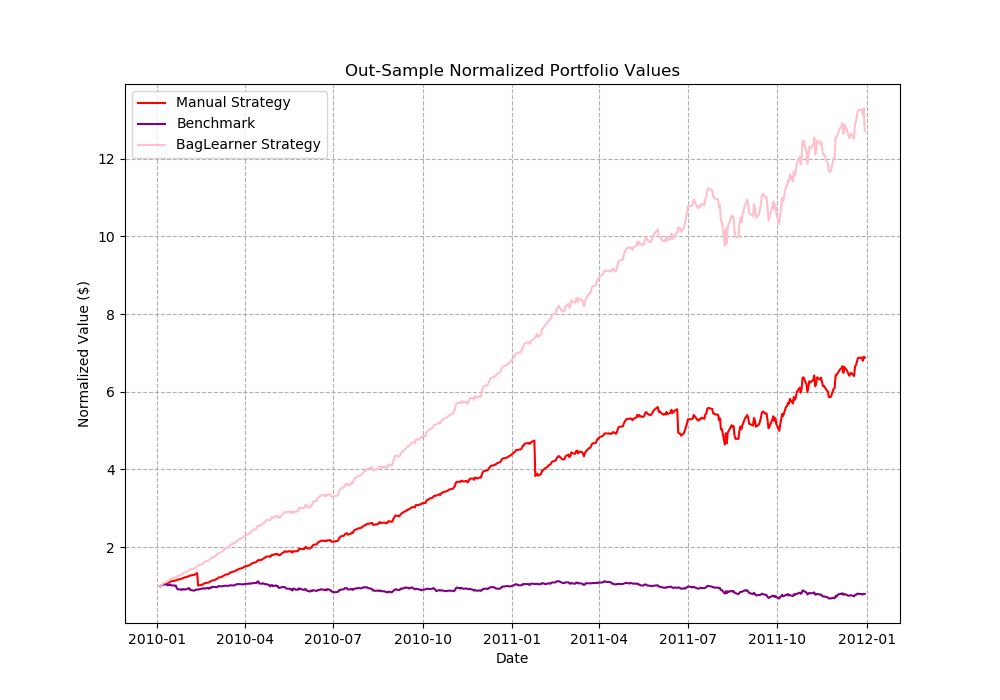
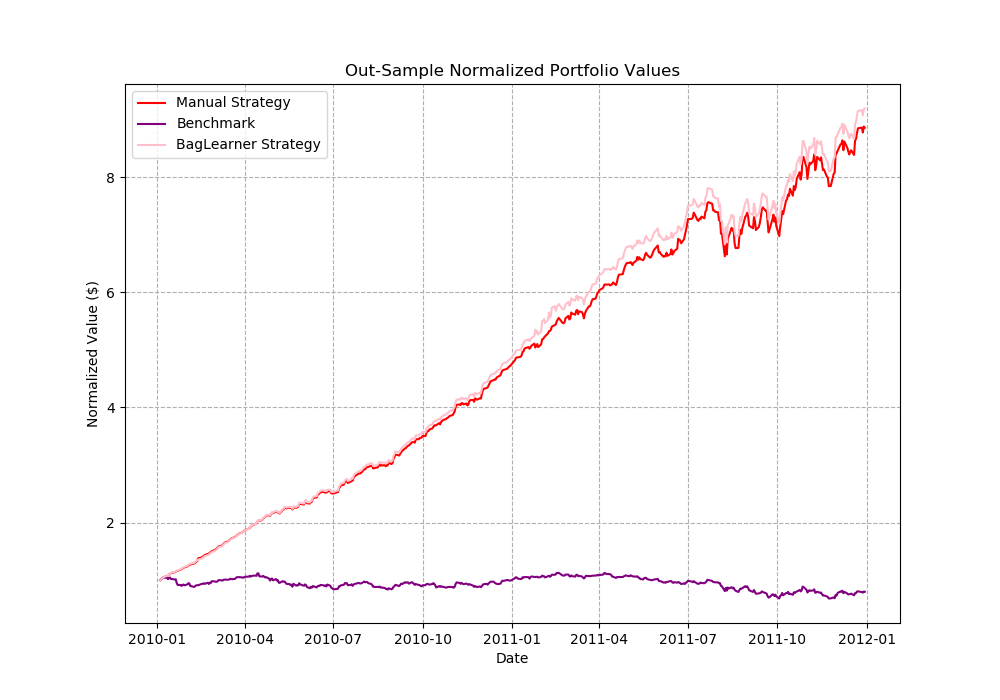
Project 8: experiment 2 graphs and data gathered

diff --git a/strategy_evaluation/experiment2.py b/strategy_evaluation/experiment2.py
@@ -1,2 +1,94 @@
+import StrategyLearner
+import datetime as dt
+import pandas as pd
+import util
+import matplotlib.pyplot as plt
+import marketsimcode
+
 def author():
   return 'jpb6' # replace tb34 with your Georgia Tech username.
+
+def impactChange():
+  start_date = dt.datetime(2008, 1, 1)
+  end_date = dt.datetime(2009, 12, 30)
+
+  learner = StrategyLearner.StrategyLearner(verbose=True, impact=0.005)
+  learner.add_evidence(symbol='JPM', sd=start_date, ed=end_date, sv=100000)
+  trades = learner.testPolicy(symbol='JPM', sd=start_date, ed=end_date, sv=100000)
+
+  portvalsImpact = marketsimcode.compute_portvals(orders_df=trades, impact=0.005, commission=9.95)
+  cr = (portvalsImpact[-1] / portvalsImpact[0]) - 1
+  dr = (portvalsImpact[1:] / portvalsImpact.shift(1)) - 1
+  std_dr = dr.std()
+  mean_dr = dr.mean()
+  norm = portvalsImpact / portvalsImpact[0]
+
+  learner = StrategyLearner.StrategyLearner(verbose=True, impact=0.005)
+  learner.add_evidence(symbol='JPM', sd=start_date, ed=end_date, sv=100000)
+  trades = learner.testPolicy(symbol='JPM', sd=start_date, ed=end_date, sv=100000)
+
+  portvalsNoImpact = marketsimcode.compute_portvals(orders_df=trades, impact=0.005, commission=9.95)
+  crNo = (portvalsNoImpact[-1] / portvalsNoImpact[0]) - 1
+  drNo = (portvalsNoImpact[1:] / portvalsNoImpact.shift(1)) - 1
+  std_drNo = drNo.std()
+  mean_drNo = drNo.mean()
+  normNo = portvalsNoImpact / portvalsNoImpact[0]
+
+  learner = StrategyLearner.StrategyLearner(verbose=True, impact=0.01)
+  learner.add_evidence(symbol='JPM', sd=start_date, ed=end_date, sv=100000)
+  trades = learner.testPolicy(symbol='JPM', sd=start_date, ed=end_date, sv=100000)
+
+  portvalsImpact1 = marketsimcode.compute_portvals(orders_df=trades, impact=0.01, commission=9.95)
+  cr1 = (portvalsImpact1[-1] / portvalsImpact1[0]) - 1
+  dr1 = (portvalsImpact1[1:] / portvalsImpact1.shift(1)) - 1
+  std_dr1 = dr1.std()
+  mean_dr1 = dr1.mean()
+  norm1 = portvalsImpact1 / portvalsImpact1[0]
+
+  learner = StrategyLearner.StrategyLearner(verbose=True, impact=0.1)
+  learner.add_evidence(symbol='JPM', sd=start_date, ed=end_date, sv=100000)
+  trades = learner.testPolicy(symbol='JPM', sd=start_date, ed=end_date, sv=100000)
+
+  portvalsImpact2 = marketsimcode.compute_portvals(orders_df=trades, impact=0.1, commission=9.95)
+  cr2 = (portvalsImpact2[-1] / portvalsImpact2[0]) - 1
+  dr2 = (portvalsImpact2[1:] / portvalsImpact2.shift(1)) - 1
+  std_dr2 = dr2.std()
+  mean_dr2 = dr2.mean()
+  norm2 = portvalsImpact2 / portvalsImpact2[0]
+
+  f = open("p8_exp2_impact_test_results.txt", "a")
+  f.truncate(0)
+  f.write(
+    "IMPACT .005 VALS: \n CR = " + str(cr) + "\n STD_DR = " + str(std_dr) + "\n MEAN_DR = " + str(
+      mean_dr) +
+    "\n\nNO IMPACT VALS: \n CR = " + str(crNo) + "\n STD_DR = " + str(
+      std_drNo) + "\n MEAN_DR = " + str(mean_drNo) + "\n" +
+    "\n\nIMPACT .01 VALS: \n CR = " + str(cr1) + "\n STD_DR = " + str(
+      std_dr1) + "\n MEAN_DR = " + str(mean_dr1) + "\n" +
+    "\n\nIMPACT .1 VALS: \n CR = " + str(cr2) + "\n STD_DR = " + str(
+      std_dr2) + "\n MEAN_DR = " + str(mean_dr2) + "\n"
+  )
+  f.close()
+
+  f = plt.figure()
+  f.set_figwidth(10)
+  f.set_figheight(7)
+  plt.plot(norm, label="Impact .005", color="red")
+  plt.plot(normNo, label="No Impact", color="purple")
+  plt.plot(norm1, label="Impact .01", color="pink")
+  plt.plot(norm2, label="Impact .1", color="blue")
+  plt.grid(linestyle="--")
+  plt.legend(loc="best")
+  plt.title("Effect of Impact on BagLearner")
+  plt.xlabel("Date")
+  plt.ylabel("Normalized Value ($)")
+  plt.savefig("experiment2Impact.png")
+  plt.clf()
+  plt.close(f)
+
+
+def experiment2():
+  impactChange()
+
+if __name__ == "__main__":
+    experiment2()

diff --git a/strategy_evaluation/experiment1.py b/strategy_evaluation/experiment1.py
@@ -16,7 +16,7 @@ def inSample():
     end_date = dt.datetime(2009, 12, 30)
     symbols = ["JPM"]
     trades, long, short = ManualStrategy.manualStrategy(symbols, start_date, end_date, starting_value=100000)
-    manualPortVals = marketsimcode.compute_portvals(orders_df=trades, impact=9.95, commission=0.005)
+    manualPortVals = marketsimcode.compute_portvals(orders_df=trades, impact=0.005, commission=9.95)
     crManual = (manualPortVals[-1] / manualPortVals[0]) - 1
     drManual = (manualPortVals[1:] / manualPortVals.shift(1)) - 1
     std_drManual = drManual.std()
@@ -33,11 +33,11 @@ def inSample():
     mean_drBenchmark = drBenchmark.mean()
     benchmarkNorm = benchmarkPortVals / benchmarkPortVals.iloc[0]
 
-    learner = StrategyLearner.StrategyLearner(verbose=True, impact=0.000)
+    learner = StrategyLearner.StrategyLearner(verbose=True, impact=0.005)
     learner.add_evidence(symbol='JPM', sd=start_date, ed=end_date, sv=100000)
     trades = learner.testPolicy(symbol='JPM', sd=start_date, ed=end_date, sv=100000)
 
-    portvals = marketsimcode.compute_portvals(orders_df=trades, impact=9.95, commission=0.005)
+    portvals = marketsimcode.compute_portvals(orders_df=trades, impact=0.005, commission=9.95)
     cr = (portvals[-1] / portvals[0]) - 1
     dr = (portvals[1:] / portvals.shift(1)) - 1
     std_dr = dr.std()
@@ -76,7 +76,7 @@ def outSample():
     end_date = dt.datetime(2011, 12, 30)
     symbols = ["JPM"]
     trades, long, short = ManualStrategy.manualStrategy(symbols, start_date, end_date, starting_value=100000)
-    manualPortVals = marketsimcode.compute_portvals(orders_df=trades, impact=9.95, commission=0.005)
+    manualPortVals = marketsimcode.compute_portvals(orders_df=trades, impact=0.005, commission=9.95)
     crManual = (manualPortVals[-1] / manualPortVals[0]) - 1
     drManual = (manualPortVals[1:] / manualPortVals.shift(1)) - 1
     std_drManual = drManual.std()
@@ -93,11 +93,11 @@ def outSample():
     mean_drBenchmark = drBenchmark.mean()
     benchmarkNorm = benchmarkPortVals / benchmarkPortVals.iloc[0]
 
-    learner = StrategyLearner.StrategyLearner(verbose=True, impact=0.000)
+    learner = StrategyLearner.StrategyLearner(verbose=True, impact=0.005)
     learner.add_evidence(symbol='JPM', sd=dt.datetime(2008, 1, 1), ed=dt.datetime(2009, 12, 30), sv=100000)
     trades = learner.testPolicy(symbol='JPM', sd=start_date, ed=end_date, sv=100000)
 
-    portvals = marketsimcode.compute_portvals(orders_df=trades, impact=9.95, commission=0.005)
+    portvals = marketsimcode.compute_portvals(orders_df=trades, impact=0.005, commission=9.95)
     cr = (portvals[-1] / portvals[0]) - 1
     dr = (portvals[1:] / portvals.shift(1)) - 1
     std_dr = dr.std()
@@ -130,7 +130,9 @@ def outSample():
     plt.clf()
     plt.close(f)
 
+def experiment1():
+    inSample()
+    outSample()
 
 if __name__ == "__main__":
-    # inSample()
-    outSample()
+    experiment1()

diff --git a/strategy_evaluation/ManualStrategy.py b/strategy_evaluation/ManualStrategy.py
@@ -85,7 +85,7 @@ def inSample():
     end_date = dt.datetime(2009, 12, 30)
     symbols = ["JPM"]
     trades, long, short = manualStrategy(symbols, start_date, end_date, starting_value=100000)
-    manualPortVals = marketsimcode.compute_portvals(orders_df=trades, impact=9.95, commission=0.005)
+    manualPortVals = marketsimcode.compute_portvals(orders_df=trades, impact=0.005, commission=9.95)
     crManual = (manualPortVals[-1] / manualPortVals[0]) - 1
     drManual = (manualPortVals[1:] / manualPortVals.shift(1)) - 1
     std_drManual = drManual.std()
@@ -136,7 +136,7 @@ def outSample():
     symbols = ["JPM"]
     trades, long, short = manualStrategy(symbols, start_date, end_date, starting_value=100000)
 
-    manualPortVals = marketsimcode.compute_portvals(orders_df=trades, impact=9.95, commission=0.005)
+    manualPortVals = marketsimcode.compute_portvals(orders_df=trades, impact=0.005, commission=9.95)
     crManual = (manualPortVals[-1] / manualPortVals[0]) - 1
     drManual = (manualPortVals[1:] / manualPortVals.shift(1)) - 1
     std_drManual = drManual.std()

diff --git a/strategy_evaluation/StrategyLearner.py b/strategy_evaluation/StrategyLearner.py
@@ -203,8 +203,8 @@ def get_indicators(prices, symbol):
     return sma, macd, cci
 
 if __name__ == "__main__":
-    start_date = dt.datetime(2010, 1, 1)
-    end_date = dt.datetime(2011, 12, 30)
+    start_date = dt.datetime(2008, 1, 1)
+    end_date = dt.datetime(2009, 12, 30)
     symbol = "JPM"
     learner = StrategyLearner(verbose=True, impact=0.000)
     learner.add_evidence(symbol=symbol, sd=start_date, ed=end_date, sv=100000)

diff --git a/strategy_evaluation/testproject.py b/strategy_evaluation/testproject.py
@@ -1,2 +1,17 @@
+from ManualStrategy import inSample, outSample
+from experiment1 import experiment1
+from experiment2 import experiment2
+
 def author():
-  return 'jpb6' # replace tb34 with your Georgia Tech username.
+    return 'jpb6'  # replace tb34 with your Georgia Tech username.
+
+
+def report():
+    inSample()
+    outSample()
+    experiment1()
+    experiment2()
+
+
+if __name__ == "__main__":
+    report()
